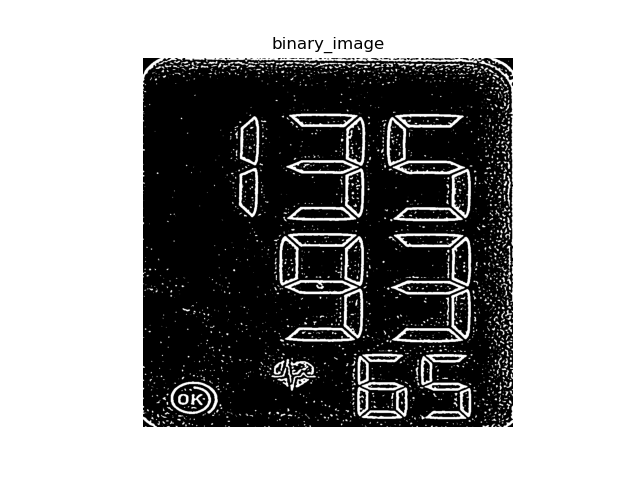
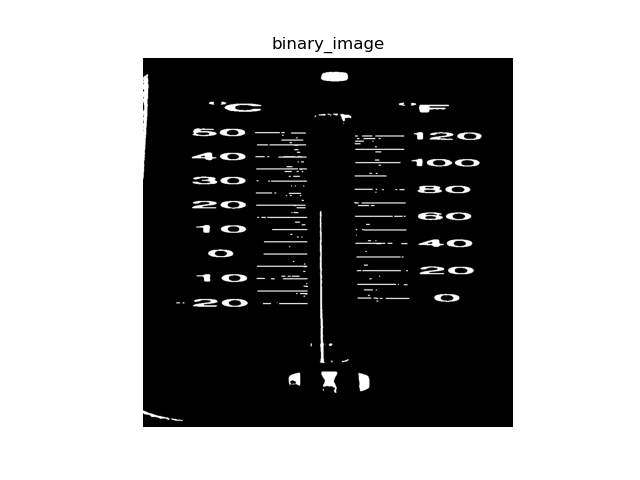
thermo task 2

diff --git a/assignment/purcell_finn_21500358/task2.py b/assignment/purcell_finn_21500358/task2.py
@@ -1,5 +1,5 @@
 # Author: Finn Purcell
-# Last Modified: 27/08/2026
+# Last Modified: 29/08/2026
 
 import os
 import cv2
@@ -35,6 +35,7 @@ def show_image(image, title='test', cmap = 'gray'):
     plt.title(title)
     plt.savefig(f'test_out/{title}.png')
     plt.show()
+    plt.close()
 
 
 def preprocess_image(image, threshold=threshold_otsu, windowSize = 15, k=0.2):
@@ -43,18 +44,17 @@ def preprocess_image(image, threshold=threshold_otsu, windowSize = 15, k=0.2):
     image = cv2.normalize(image, None, 0, 255, cv2.NORM_MINMAX)
     image = cv2.medianBlur(image, 5)
     image = img_as_float(image) #convert to use skilearn thresholding
+
     if threshold == threshold_otsu:
         th = threshold(image)
+    elif threshold == None:
+        return img_as_ubyte(image)
     else:
         th = threshold(image, windowSize, k) #statistical thresholds require additional params
+
     binary_im = image > th
 
     cv_im = img_as_ubyte(binary_im) #convert back to openCV
-
-    #kernel = np.ones((5, 5), np.uint8)
-    #combined = cv2.dilate(cv_im, kernel, iterations=1)
-
-    #cv_im = cv2.medianBlur(cv_im, 7)
     
     show_image(cv_im, title = "binary_image", cmap='binary')
 
@@ -258,6 +258,40 @@ def lcd_digit_extract(imagePath, fileName):
 
     extractDigits(digits, originalImage, binary, fileName)
 
+def thermo_find_level(imagePath, fileName):
+    originalImage, gray = read_im_gs(imagePath)
+
+    ppImage = preprocess_image(gray)
+    edges = cv2.Canny(ppImage, 50, 150, apertureSize= 5)
+
+    lines = cv2.HoughLinesP(edges,1,np.pi/180,100,minLineLength=90,maxLineGap=20)
+
+    ppImage = cv2.cvtColor(ppImage, cv2.COLOR_GRAY2BGR)
+
+    if lines is not None:
+        for line in lines:
+            x1,y1,x2,y2 = line
+            if abs(x1-x2) < 10:
+                cv2.line(ppImage,(x1,y1),(x2,y2),(0,255,0),2)
+                thermoY = np.min([y1, y2])
+                thermoX = x1
+    
+    originalY, originalX = originalImage.shape[:2]
+    processedY, processedX = ppImage.shape[:2]
+
+    #counteract effect of resize in preprocessing
+    pad = 300
+    scaleX = originalX/processedX
+    scaleY = originalY/processedY
+
+    thermEndY = int(thermoY * scaleY)
+    thermEndX = int(thermoX * scaleX)
+
+    croppedImage = originalImage[max(thermEndY-pad, 0): min(thermEndY+pad, originalY), max(thermEndX-pad, 0): min(thermEndX+pad, originalX)]    
+    
+
+    save_output(f"output/task2/{fileName}/t.png", croppedImage, output_type='image')
+
 def run_task2(image_path, config):
     # TODO: Implement thermo detection & order digits. Then done!
     imPaths = []
@@ -267,7 +301,11 @@ def run_task2(image_path, config):
             
     for imPath, entry in imPaths:
         if "lcd" in imPath:
-            lcd_digit_extract(imPath, entry)
+            pass
+            #lcd_digit_extract(imPath, entry)
+
+        else:
+            thermo_find_level(imPath, entry)
 
 
 if __name__ == "__main__":

diff --git a/assignment/purcell_finn_21500358/task3.py b/assignment/purcell_finn_21500358/task3.py
@@ -1,23 +1,9 @@
-
-
-# Licensed under the Apache License, Version 2.0 (the "License");
-# you may not use this file except in compliance with the License.
-# You may obtain a copy of the License at
-#
-#     http://www.apache.org/licenses/LICENSE-2.0
-#
-# Unless required by applicable law or agreed to in writing, software
-# distributed under the License is distributed on an "AS IS" BASIS,
-# WITHOUT WARRANTIES OR CONDITIONS OF ANY KIND, either express or implied.
-# See the License for the specific language governing permissions and
-# limitations under the License.
-
-
-# Author: [Your Name]
-# Last Modified: 2024-09-09
+# Author: Finn Purcell
+# Last Modified: 29/8/2026
 
 import os
-
+import cv2
+import sklearn
 
 def save_output(output_path, content, output_type='txt'):
     os.makedirs(os.path.dirname(output_path), exist_ok=True)
